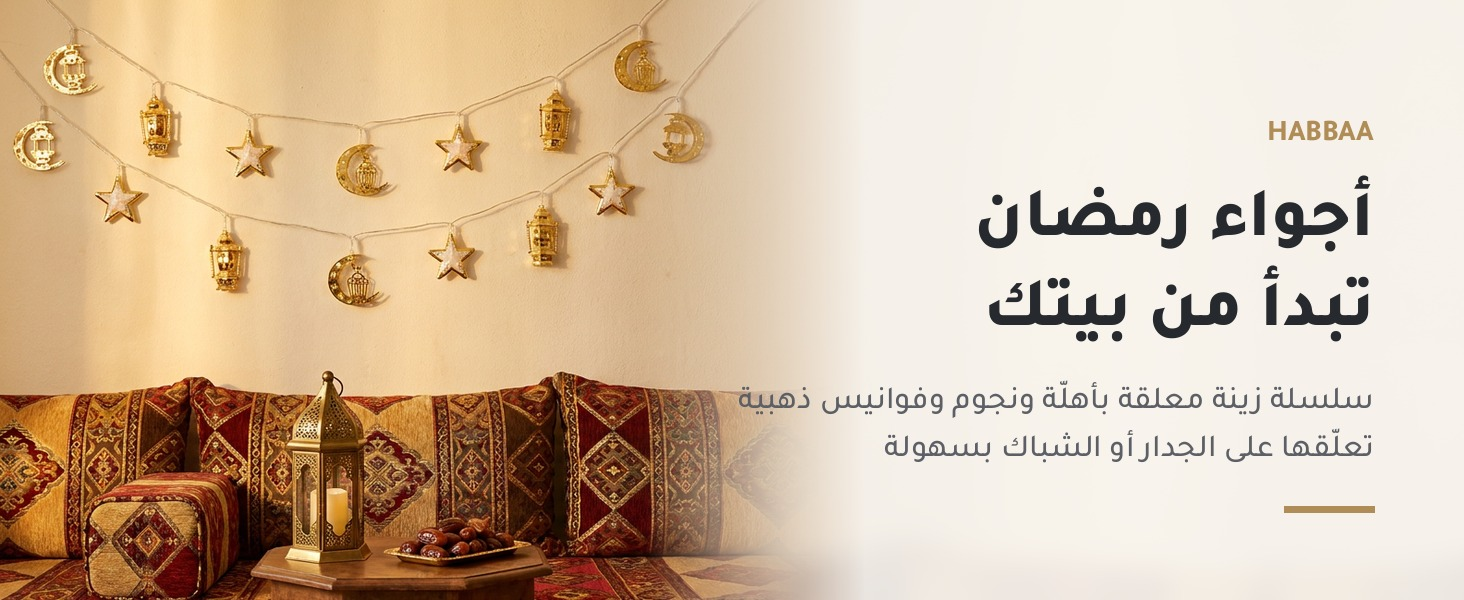
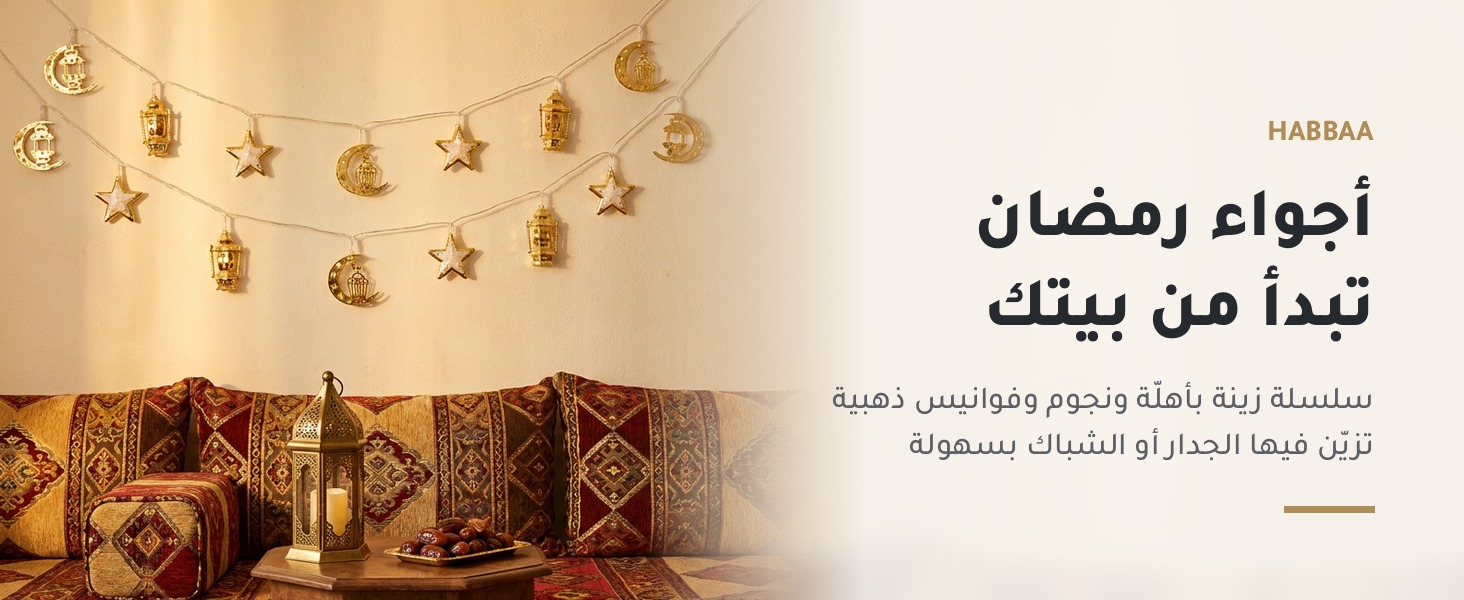
day2: remove blocked substring علق
Claude-Session: https://claude.ai/code/session_01Ad5C64gfiPaS1cUDzr1yxB

Changed region(s): [[0.584, 0.72, 0.9529, 0.78], [0.4918, 0.63, 0.8299, 0.69]]

diff --git a/pipeline/day2.py b/pipeline/day2.py
@@ -1,4 +1,4 @@
-import os, sys, json
+import os, sys, json, re
 sys.path.insert(0, '/home/claude/habbaa-product-images/pipeline')
 os.environ['HB_FONTS'] = '/home/claude/habbaa-product-images/pipeline/fonts'
 import aplus_lib as L
@@ -20,10 +20,10 @@ F = {
    uses=('هدية تذكارية تفرق', [('fn-wedding.png','الأعراس'),('fn-favors.png','توزيعات المناسبات'),('fn-bag.png','في الشنطة'),('fn-macro.png','نقش يدوي')]),
    feat=('fan.jpg','صناعة يدوية بلمسة تقليدية',[('شغل يدوي','نقوش دقيقة بلمسة فنية'),('خشب البامبو','خيار صديق للبيئة'),('تنطوي بسهولة','سهلة الحمل والتخزين'),('لكل مناسبة','أعراس واستقبال مواليد وهدايا')]), photo=True,
    alt=['مروحة يد خشبية من HABBAA على طاولة بيضاء','استخدامات مراوح HABBAA الخشبية في المناسبات','مميزات مروحة HABBAA من خشب البامبو']),
- 'ramadan': dict(hero=('rm-hero2.png', ['أجواء رمضان', 'تبدأ من بيتك'], ['سلسلة زينة معلقة بأهلّة ونجوم وفوانيس ذهبية', 'تعلّقها على الجدار أو الشباك بسهولة']),
+ 'ramadan': dict(hero=('rm-hero2.png', ['أجواء رمضان', 'تبدأ من بيتك'], ['سلسلة زينة بأهلّة ونجوم وفوانيس ذهبية', 'تزيّن فيها الجدار أو الشباك بسهولة']),
    uses=('زيّن كل زاوية', [('rm-majlis.png','المجلس'),('rm-iftar.png','سفرة الفطور'),('rm-shelf.png','الأرفف'),('rm-macro.png','تفاصيل ذهبية')]),
-   feat=('ramadan2.jpg','زينة سهلة وأنيقة',[('خفيفة الوزن','تتعلق وتنشال بدون أدوات'),('أماكن كثيرة','الجدران والشبابيك والأرفف'),('لرمضان والعيد','تضفي جو احتفالي دافئ'),('تصاميم متنوعة','أشكال مختلفة ضمن نفس التشكيلة')]), photo=True,
-   alt=['زينة رمضان المعلقة من HABBAA في المجلس','استخدامات زينة رمضان من HABBAA','تفاصيل سلسلة زينة رمضان الذهبية من HABBAA']),
+   feat=('ramadan2.jpg','زينة سهلة وأنيقة',[('خفيفة الوزن','تركيبها وفكّها بدون أدوات'),('أماكن كثيرة','الجدران والشبابيك والأرفف'),('لرمضان والعيد','تضفي جو احتفالي دافئ'),('تصاميم متنوعة','أشكال مختلفة ضمن نفس التشكيلة')]), photo=True,
+   alt=['زينة رمضان من HABBAA في المجلس','استخدامات زينة رمضان من HABBAA','تفاصيل سلسلة زينة رمضان الذهبية من HABBAA']),
  'clear': dict(hero=('cl-hero1.png', ['مشروبك يبان', 'بأحلى شكل'], ['أكواب بلاستيك شفافة بغطاء محكم', 'للعصيرات والمشروبات الباردة']),
    uses=('للمحلات والمكاتب والمناسبات', [('cl-boba.png','المشاوير'),('cl-juice.png','محلات العصير'),('cl-office.png','المكتب'),('cl-party.png','المناسبات')]),
    feat=('clear.jpg','شفاف ومتين',[('هيكل شفاف','يعرض لون المشروب'),('غطاء محكم','يقلل الانسكاب أثناء الشرب'),('بلاستيك متين','للاستخدام اليومي المتكرر'),('مناسب للجملة','للمقاهي والمكاتب والتجمعات')]),
@@ -33,21 +33,21 @@ F = {
    feat=('spoon.jpg','ميلامين آمن وعملي',[('وعاء عميق','يشيل الشوربة والقطع الكبيرة'),('ميلامين آمن للطعام','بمظهر يشبه البورسلين'),('نقش زهور','قاعدة بيضاء ومقبض مزخرف'),('سهل التنظيف','يقاوم البقع')]),
    alt=['ملعقة شوربة ميلامين من HABBAA في طبق رامن','استخدامات ملاعق HABBAA الميلامين','مميزات ملاعق HABBAA بنقش الزهور']),
  'shoe': dict(hero=('sh-hero1.png', ['البس حذاءك', 'بدون ما تنحني'], ['ملعقة حذاء بمقبض طويل وعلاقة', 'سهلة لكبار السن وللجميع']),
-   uses=('مريحة لكل العائلة', [('sh-elder.png','لكبار السن'),('sh-close.png','تنزلق بنعومة'),('sh-hook.png','تتعلق جنب الباب'),('sh-case.png','في السفر')]),
+   uses=('مريحة لكل العائلة', [('sh-elder.png','لكبار السن'),('sh-close.png','تنزلق بنعومة'),('sh-hook.png','مكانها جنب الباب'),('sh-case.png','في السفر')]),
    feat=('shoe2.jpg','راحة كل يوم',[('مقبض طويل','تلبس واقف بدون انحناء'),('سطح أملس','بدون نتوءات ويحافظ على الحذاء'),('علاقة للتعليق','سهلة الحفظ والوصول'),('للجميع','للرجال والنساء وكبار السن والحوامل')]), photo=True,
    alt=['ملعقة حذاء طويلة من HABBAA أثناء لبس الحذاء','استخدامات ملعقة الحذاء الطويلة من HABBAA','مميزات ملعقة حذاء HABBAA بمقبض طويل']),
  'putty': dict(hero=('pt-hero1.png', ['تشطيب ناعم', 'بكل سهولة'], ['سكينة معجون ستانلس ستيل 4 إنش', 'بمقبض بلاستيك مريح يثبت في اليد']),
-   uses=('أداة لكل شغل في البيت', [('pt-crack.png','سد الشقوق'),('pt-paint.png','كشط الدهان'),('pt-tile.png','ترويب البلاط'),('pt-peg.png','تتعلق مع العدة')]),
+   uses=('أداة لكل شغل في البيت', [('pt-crack.png','سد الشقوق'),('pt-paint.png','كشط الدهان'),('pt-tile.png','ترويب البلاط'),('pt-peg.png','مرتبة مع العدة')]),
    feat=('putty.jpg','قوية ومريحة',[('شفرة ستانلس ستيل','عرض 4 إنش للأسطح الواسعة'),('مقبض مريح','مسكة ثابتة وتحكم أفضل'),('استخدامات كثيرة','المعجون والجبس والدهان'),('فتحة تعليق','سهلة الترتيب مع العدة')]),
    alt=['سكينة معجون HABBAA الستانلس أثناء تشطيب الجدار','استخدامات سكينة المعجون من HABBAA','مميزات سكينة معجون HABBAA الستانلس']),
 }
-BLOCK=['مص','كس','لعن','بز','ثدي']
+BLOCK=['مص','كس','لعن','بز','ثدي','علق']
 bad=[]
 for k,c in F.items():
     t=c['hero'][1]+c['hero'][2]+[c['uses'][0]]+[l for _,l in c['uses'][1]]+[c['feat'][1]]+[x for p in c['feat'][2] for x in p]+c['alt']
     for s in t:
         for b in BLOCK:
-            if b in s.replace(' ',''): bad.append((k,b,s))
+            if b in re.sub(r'[\s\u064B-\u0652]','',s): bad.append((k,b,s))
 if bad: print('BLOCKED',bad); sys.exit(1)
 only=sys.argv[1:] or list(F)
 for k in only:
